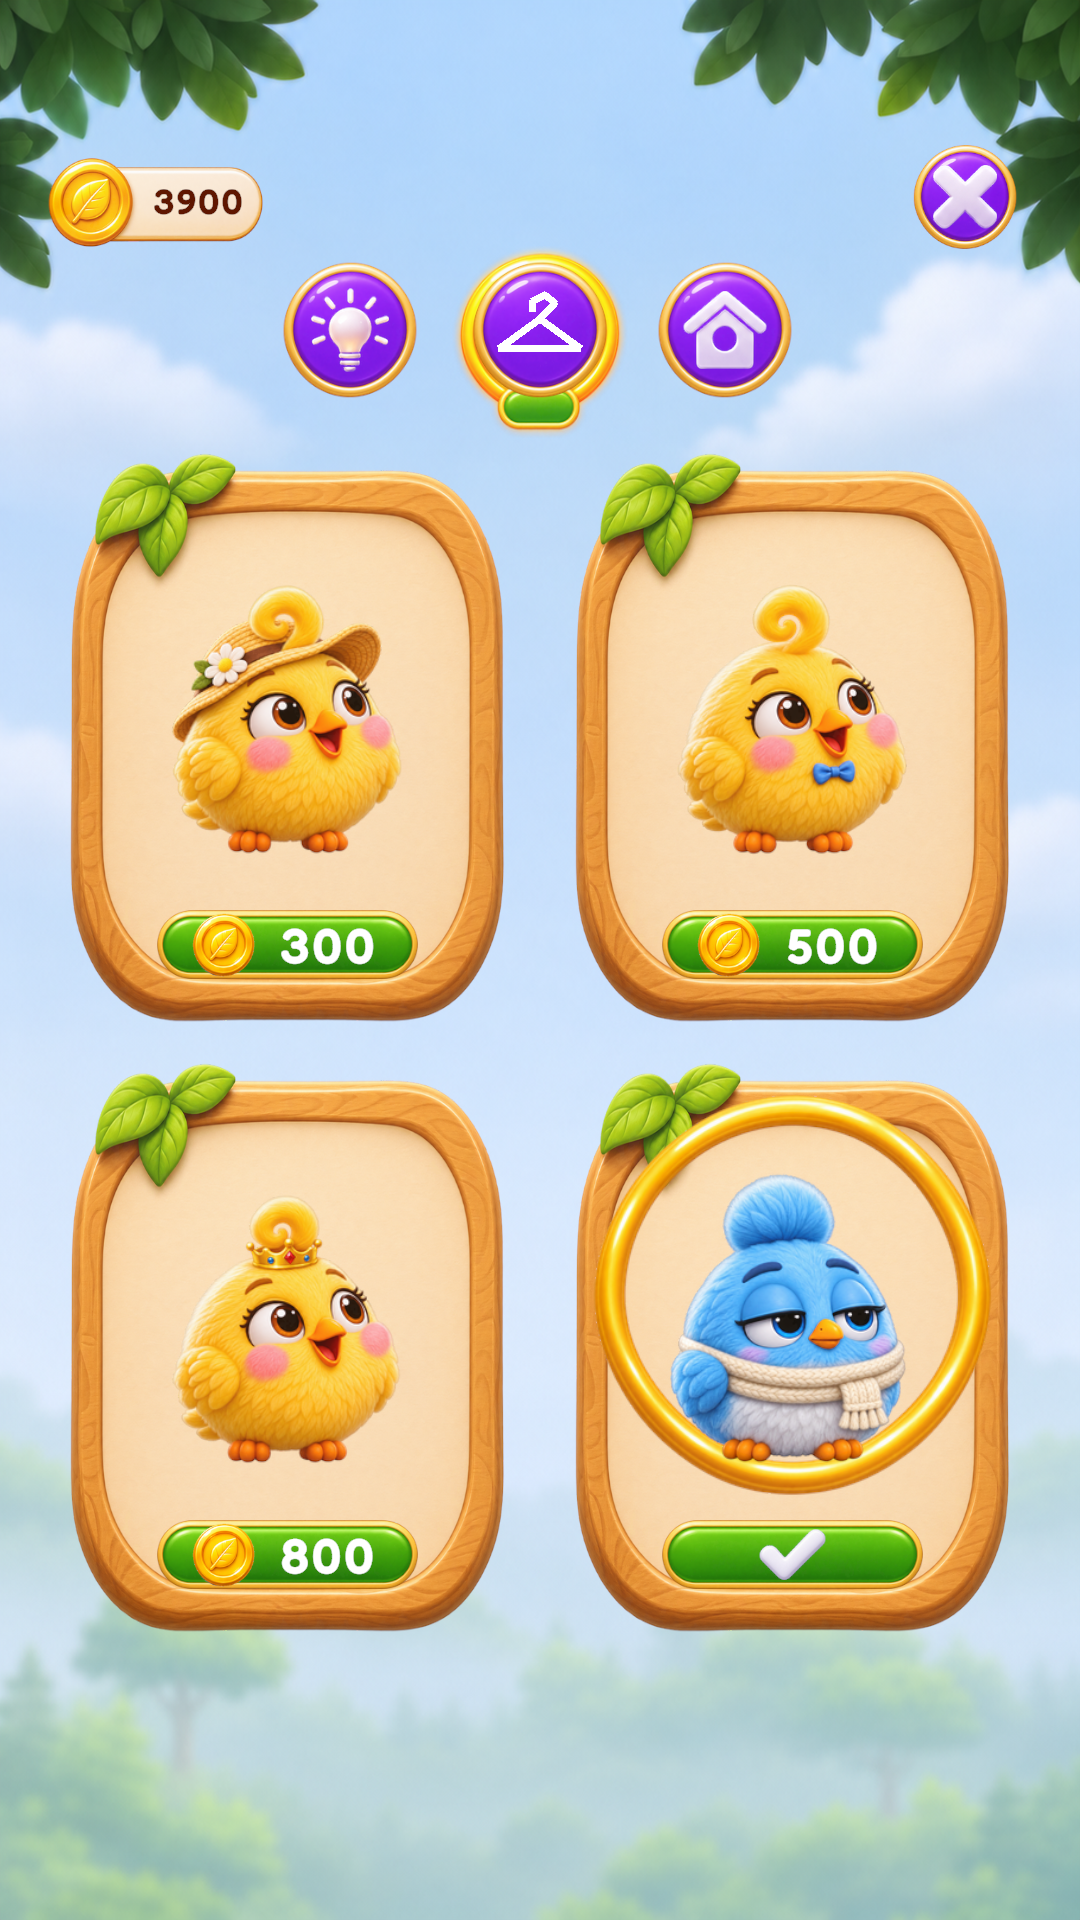
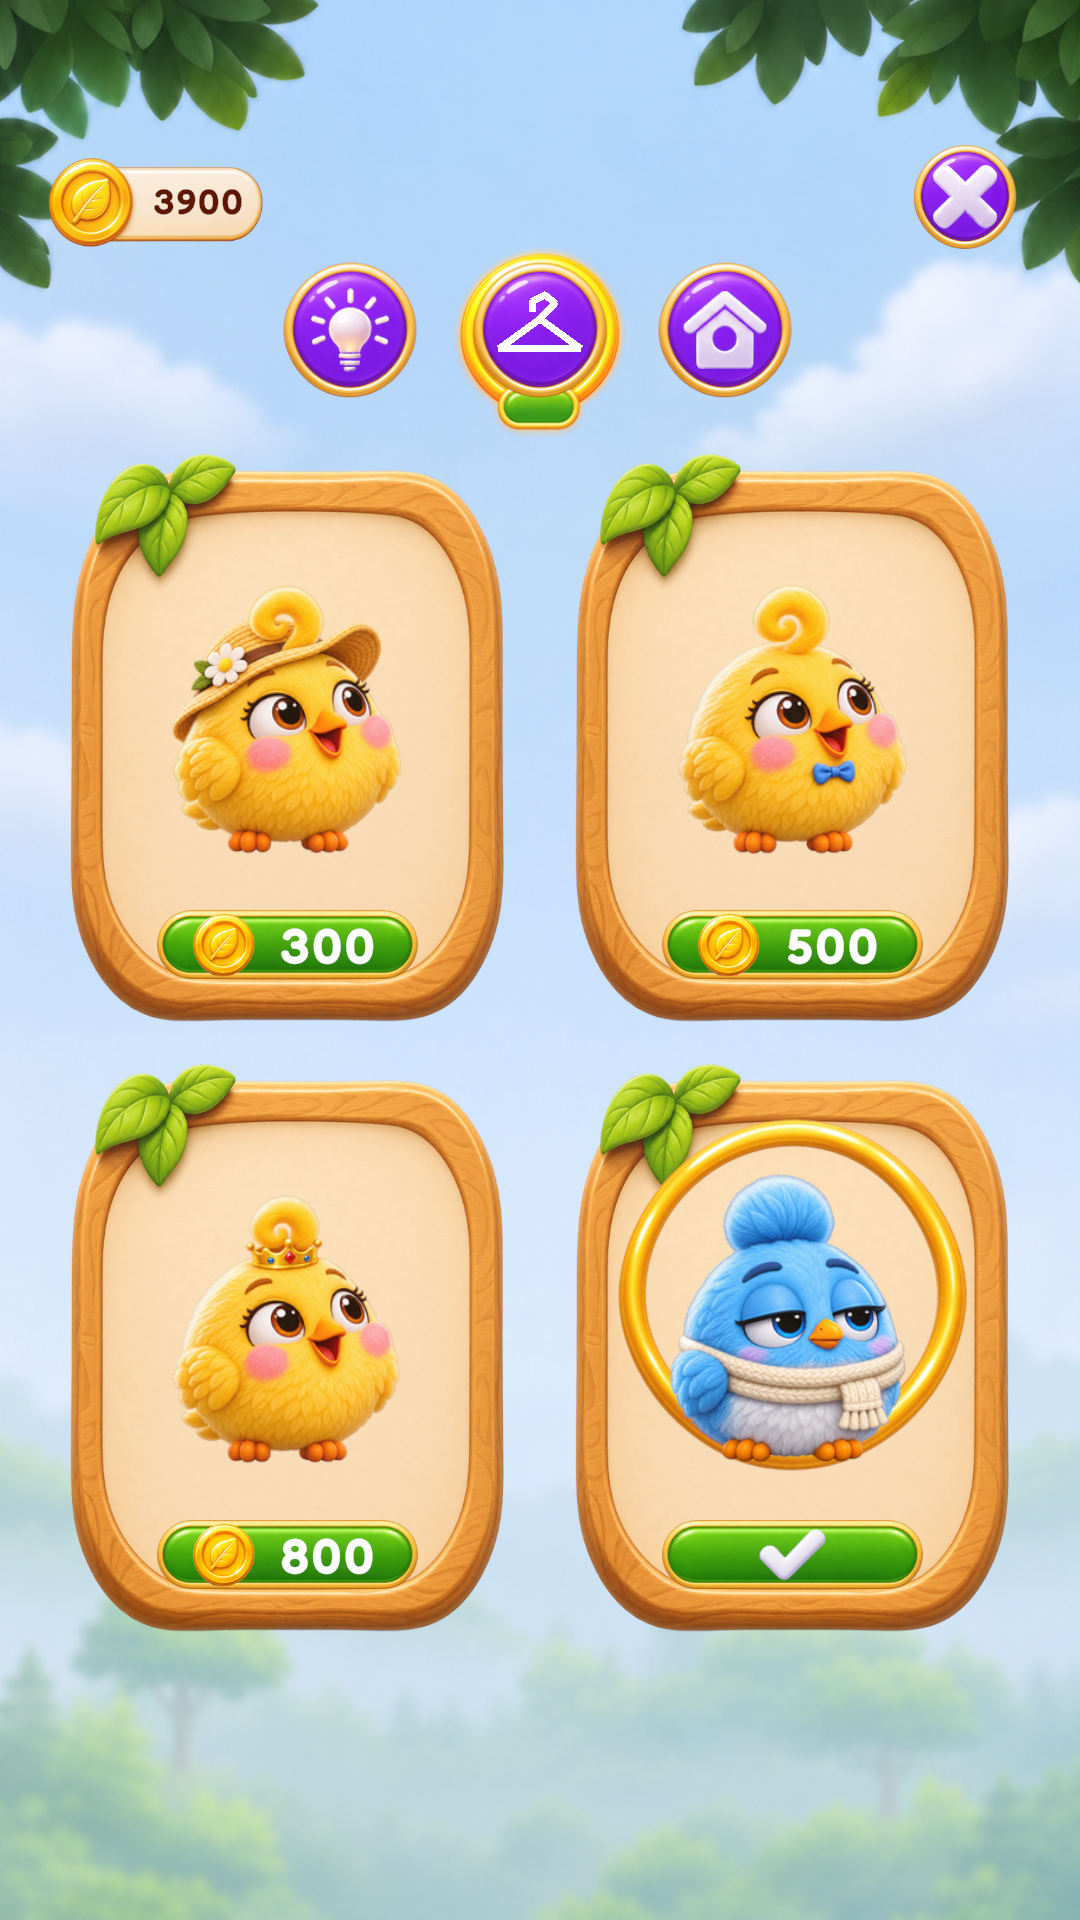
Fit equipped outfit ring to the portrait area

Changed region(s): [[0.55, 0.5625, 0.9167, 0.7812]]

diff --git a/PerchSort/Assets/Scripts/Game/ShopView.cs b/PerchSort/Assets/Scripts/Game/ShopView.cs
@@ -146,7 +146,7 @@ namespace PerchSort.Game
             card.type = Image.Type.Simple; card.raycastTarget = true; cosmeticCards.Add(item.Id, card);
             var button = card.gameObject.AddComponent<Button>(); button.targetGraphic = card; button.transition = Selectable.Transition.None;
             button.onClick.AddListener(() => TapCosmetic(item.Id));
-            var ring = GameUI.Image(card.transform, "Equipped ring", art.Get("aviary_frame"), new Vector2(227.5f, height == 575 ? 235 : 170), Vector2.one * (height == 575 ? 410 : 320));
+            var ring = GameUI.Image(card.transform, "Equipped ring", art.Get("aviary_frame"), new Vector2(227.5f, height == 575 ? 235 : 170), Vector2.one * (height == 575 ? 360 : 320));
             ring.gameObject.SetActive(Equipped(item));
             GameUI.Fit(card.transform, "Cosmetic picture", CosmeticSprite(art, item), new Vector2(227.5f, height == 575 ? 235 : 170), Vector2.one * (height == 575 ? 380 : 290));
             cosmeticPrices.Add(item.Id, CosmeticPrice(card.transform, item, new Vector2(227.5f, height - 80), new Vector2(266, 98)));

diff --git a/docs/work-log/cosmetics-wiring/report.md b/docs/work-log/cosmetics-wiring/report.md
@@ -1,5 +1,38 @@
 # Cosmetics wiring report
 
+## Coordinator ring correction
+
+Merged `origin/final-integration` first, fast-forwarding to `3a466e00`. The only subsequent production-code change is the outfit-card equipped ring diameter: **410 to 360 design pixels**, still centered at portrait-local `(227.5, 235)`. The house-card ring remains 320 pixels. Portraits, cards, prices, layout, equipment, persistence, and tests are unchanged by this correction.
+
+Current verification on the merged code and corrected ring:
+
+| Command | Result |
+| --- | --- |
+| `env PYTHONDONTWRITEBYTECODE=1 python3 ci/check_current_game_names.py --self-test` | 7/9 passed; 2 failures in merged naming-policy self-tests |
+| `env PYTHONDONTWRITEBYTECODE=1 python3 ci/check_current_game_names.py` | 1,820 violations in merged repository content outside the ring correction |
+| `flock /tmp/unity.lock bash scripts/run_tests.sh` | Scene build passed; **317/317 EditMode and 87/87 PlayMode passed**, 0 failures, 0 skips |
+| Graphics-enabled PlayMode, filtered to `CosmeticsTests.OutfitSelectionIsPerSpeciesAndDetailToggleRestoresAnimatedDefault` | **1/1 passed**, 0 skips |
+
+LevelsData retains all 81 cases and Layout retains all 41. The prior PlayMode failures described in the original delivery below no longer occur on the merged integration. Naming-policy failures were reported, not fixed or bypassed; no unowned files were edited.
+
+Graphics command:
+
+```bash
+flock /tmp/unity.lock env \
+  PERCH_COSMETICS_EVIDENCE=/Users/apple/orca/workspaces/game/cosmetics-wiring/build/ring-evidence \
+  /Applications/Unity/Hub/Editor/6000.6.7f1/Unity.app/Contents/MacOS/Unity \
+  -batchmode -projectPath /Users/apple/orca/workspaces/game/cosmetics-wiring/PerchSort \
+  -runTests -testPlatform PlayMode \
+  -testFilter PerchSort.PlayModeTests.CosmeticsTests.OutfitSelectionIsPerSpeciesAndDetailToggleRestoresAnimatedDefault \
+  -testResults /Users/apple/orca/workspaces/game/cosmetics-wiring/build/ring-results.xml \
+  -screen-width 1080 -screen-height 1920 \
+  -logFile /Users/apple/orca/workspaces/game/cosmetics-wiring/build/ring-evidence.log
+```
+
+Inspected the actual runtime screenshot: the smaller gold ring hugs the equipped portrait area rather than nearly filling the card. Updated only `evidence/ui_shop_outfits.png`, its reference comparison, and `evidence/verification.json`; all other committed visual evidence is retained. Test/capture outputs remain under ignored `build/`. Generated scene and import-metadata changes were inspected and restored to the clean post-merge starting state.
+
+The original implementation record below retains the initial delivery's context. The current results above supersede its test counts, naming results, and outstanding PlayMode failures.
+
 ## Scope
 
 Implemented the assigned specification in `ShopView.cs`, `AviaryView.cs`, `BirdhouseView.cs`, small transaction hooks in `GameRoot.cs`, and new `Tests/PlayMode/CosmeticsTests.cs` with its Unity metadata. This report and the requested evidence are the only additional authored paths.
